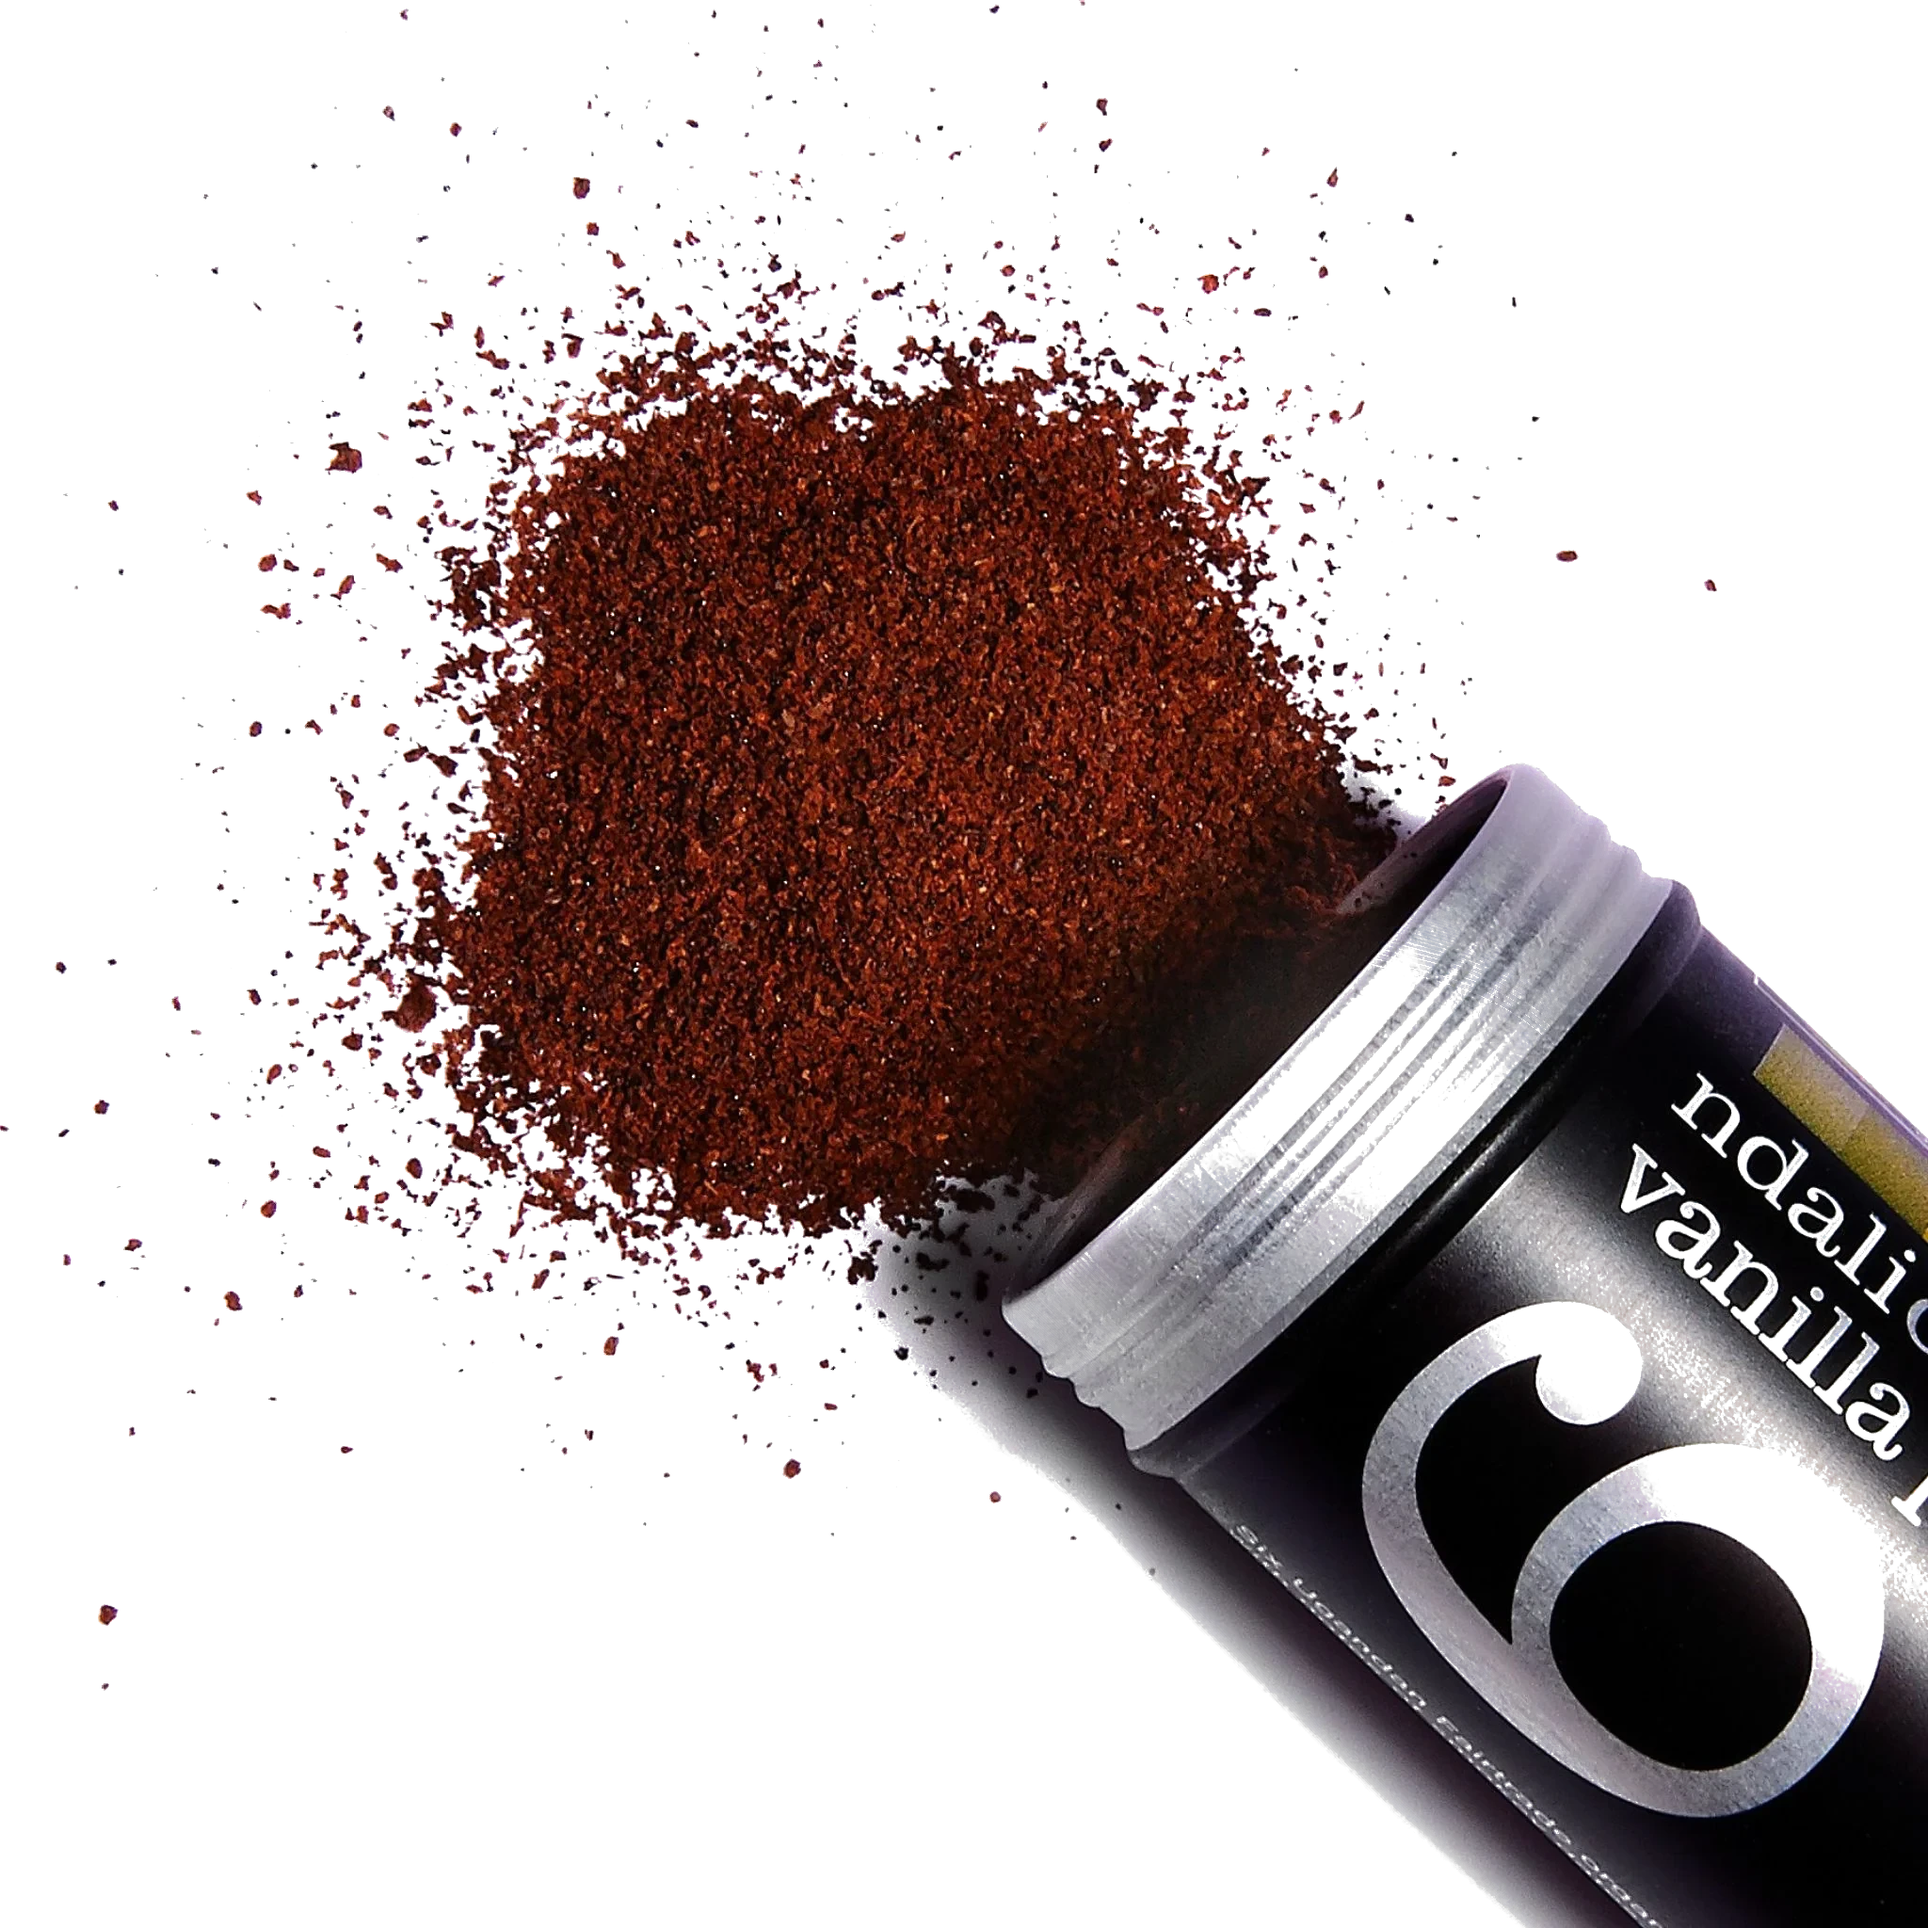
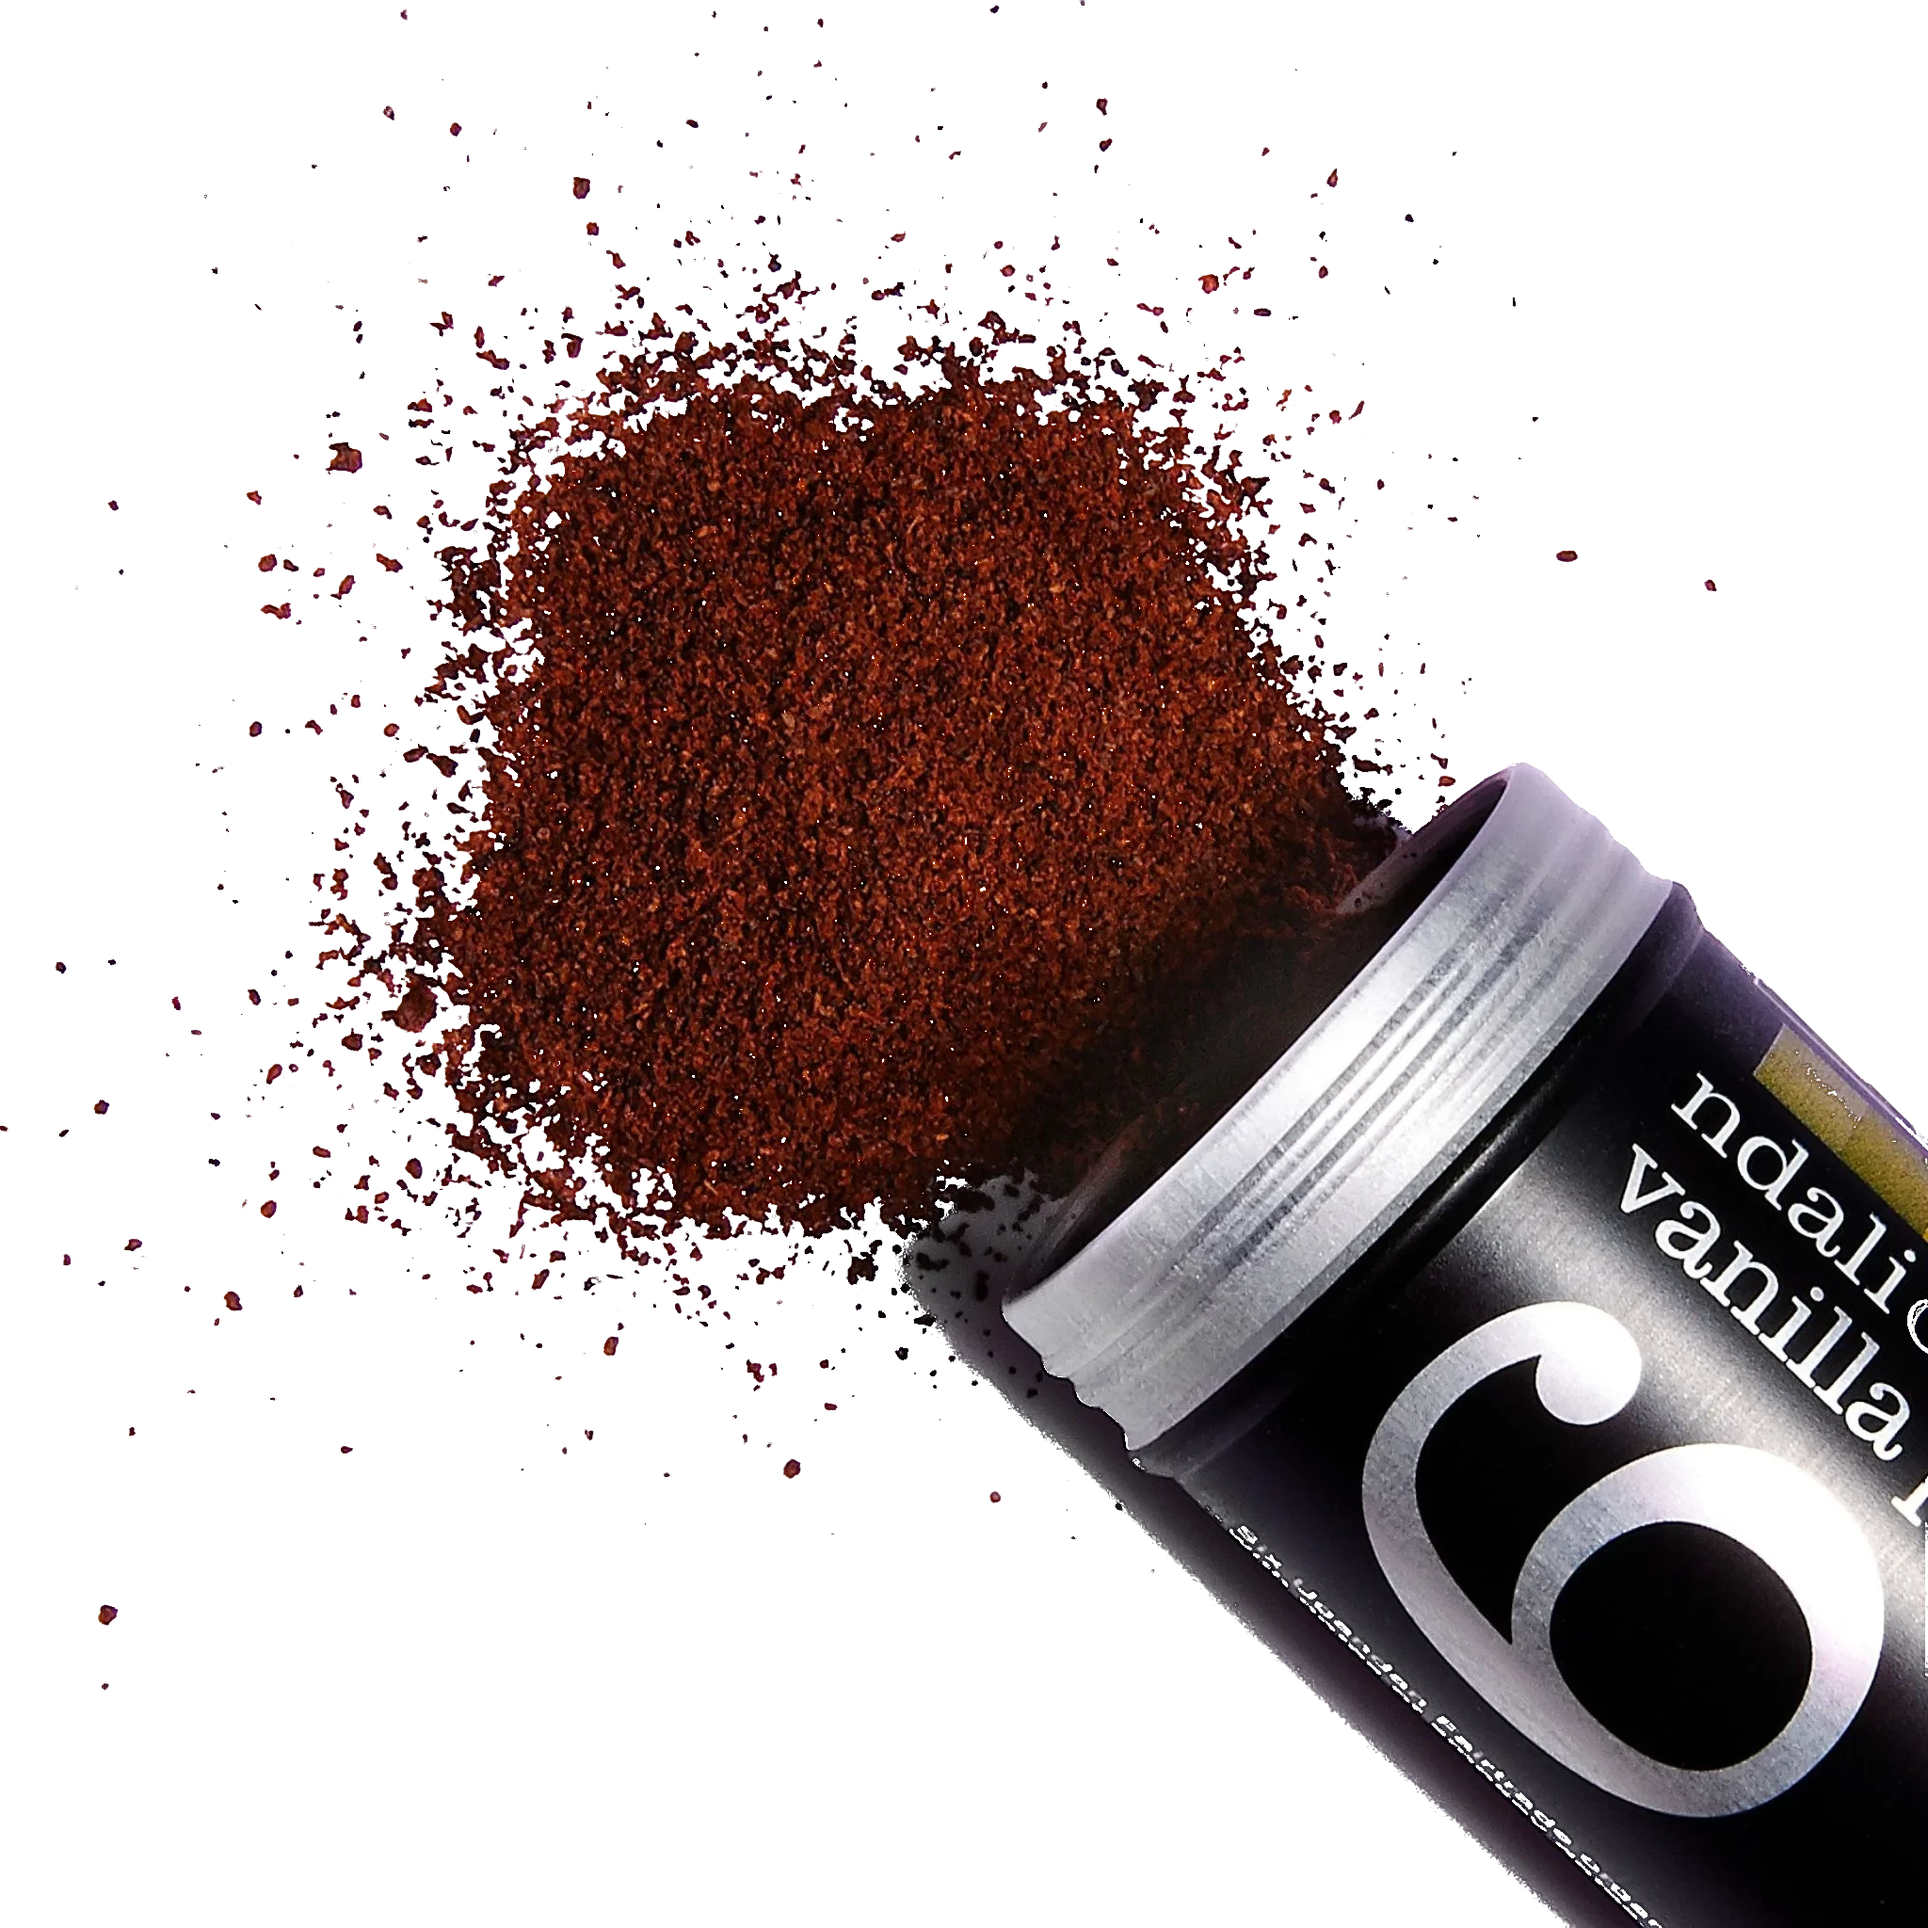
Cut-outs remade without halos; @sturdyvanilla beside every Shop link
The four product cut-outs the site uses (three tins, the spilt powder) are
remade with product-matte v2: no light rim on ink, no grey shadow on cream,
silver cap intact. Each Shop on TikTok link now carries the @sturdyvanilla
profile link with the TikTok mark beside it, because the vt.tiktok.com short
link redirects to an app scheme that a laptop browser cannot open.

diff --git a/index.html b/index.html
@@ -19,6 +19,7 @@
 <link rel="stylesheet" href="site.css">
 </head>
 <body>
+<svg style="position:absolute;width:0;height:0;overflow:hidden" aria-hidden="true" focusable="false"><symbol id="i-tiktok" viewBox="0 0 256 256"><path fill="currentColor" d="M224,72a48.05,48.05,0,0,1-48-48,8,8,0,0,0-8-8H128a8,8,0,0,0-8,8V156a20,20,0,1,1-28.57-18.08A8,8,0,0,0,96,130.69V88a8,8,0,0,0-9.4-7.88C50.91,86.48,24,119.1,24,156a76,76,0,0,0,152,0V116.29A103.25,103.25,0,0,0,224,128a8,8,0,0,0,8-8V80A8,8,0,0,0,224,72Zm-8,39.64a87.19,87.19,0,0,1-43.33-16.15A8,8,0,0,0,160,102v54a60,60,0,0,1-120,0c0-25.9,16.64-49.12,40-56.1v27.53A36,36,0,1,0,136,156V32h24.5A64.14,64.14,0,0,0,216,87.5Z"/></symbol></svg>
 
 <a class="skip" href="#main">Skip to content</a>
 <div class="sc-grain" aria-hidden="true"></div>
@@ -51,7 +52,7 @@
       <div class="title__body stack" data-sc-in data-sc-stagger="70">
         <h1 class="display">Grown by my aunt in Uganda.</h1>
         <p class="standfirst">Ndali vanilla, from my family's estate. My aunt grows and cures it. I sell it direct to home cooks.</p>
-        <p class="title__cta"><a href="https://vt.tiktok.com/ZN8YaNJSM/?page=TikTokShop">Shop on TikTok</a></p>
+        <p class="title__cta cta-row"><a href="https://vt.tiktok.com/ZN8YaNJSM/?page=TikTokShop">Shop on TikTok</a><a class="social" href="https://www.tiktok.com/@sturdyvanilla"><svg class="icon" aria-hidden="true" focusable="false"><use href="#i-tiktok"/></svg>@sturdyvanilla</a></p>
         <p class="caption title__byline">Joe Sturdy, Frome, Somerset</p>
       </div>
     </div>
@@ -127,7 +128,7 @@
             <p><a href="https://shop.tiktok.com/gb/pdp/1729692389694610075?region=GB&amp;locale=en-GB">Two intense Ndali pods</a>, 7.5g each. <span class="price">£9.99</span></p>
           </li>
         </ul>
-        <p class="caption">Every tin is recyclable aluminium. <a href="https://vt.tiktok.com/ZN8YaNJSM/?page=TikTokShop">Shop on TikTok</a>.</p>
+        <p class="caption">Every tin is recyclable aluminium. <a href="https://vt.tiktok.com/ZN8YaNJSM/?page=TikTokShop">Shop on TikTok</a>, or find <a class="social" href="https://www.tiktok.com/@sturdyvanilla"><svg class="icon" aria-hidden="true" focusable="false"><use href="#i-tiktok"/></svg>@sturdyvanilla</a>.</p>
       </div>
       <div class="media tins-media">
         <div class="cutouts" role="img" aria-label="The three tins side by side: the pods tube, the extract bottle and the powder tin.">
@@ -169,10 +170,10 @@
         <p class="label">Sturdy Vanilla</p>
         <h2 class="display">Sturdy Vanilla presents Ndali pods, extract and powder, grown by my aunt in Uganda.</h2>
         <p>Everything is on TikTok Shop. <a href="https://shop.tiktok.com/gb/pdp/1729692389694610075?region=GB&amp;locale=en-GB">2 Intense Ndali Vanilla Pods</a>, £9.99. <a href="https://shop.tiktok.com/gb/pdp/1729692405205015195?region=GB&amp;locale=en-GB">13g Ndali Vanilla Powder</a>, £10.99. <a href="https://shop.tiktok.com/gb/pdp/1729646031859653275?region=GB&amp;locale=en-GB">100ml Ndali Vanilla Extract</a>, £13.99. All in recyclable aluminium.</p>
-        <p class="colophon__cta"><a id="shop-button" class="button" href="https://vt.tiktok.com/ZN8YaNJSM/?page=TikTokShop">Shop on TikTok</a></p>
+        <p class="colophon__cta cta-row"><a id="shop-button" class="button" href="https://vt.tiktok.com/ZN8YaNJSM/?page=TikTokShop">Shop on TikTok</a><a class="social" href="https://www.tiktok.com/@sturdyvanilla"><svg class="icon" aria-hidden="true" focusable="false"><use href="#i-tiktok"/></svg>@sturdyvanilla</a></p>
       </div>
       <aside class="media colophon__aside stack" data-sc-in data-sc-stagger="60">
-        <p class="caption">Trade, stockists and press: <a href="mailto:joe@sturdy.vip">joe@sturdy.vip</a><br>WhatsApp <a href="https://wa.me/447785764880">+44 7785 764880</a><br><a class="social" href="https://www.tiktok.com/@sturdyvanilla"><svg class="icon" viewBox="0 0 256 256" aria-hidden="true" focusable="false"><path fill="currentColor" d="M224,72a48.05,48.05,0,0,1-48-48,8,8,0,0,0-8-8H128a8,8,0,0,0-8,8V156a20,20,0,1,1-28.57-18.08A8,8,0,0,0,96,130.69V88a8,8,0,0,0-9.4-7.88C50.91,86.48,24,119.1,24,156a76,76,0,0,0,152,0V116.29A103.25,103.25,0,0,0,224,128a8,8,0,0,0,8-8V80A8,8,0,0,0,224,72Zm-8,39.64a87.19,87.19,0,0,1-43.33-16.15A8,8,0,0,0,160,102v54a60,60,0,0,1-120,0c0-25.9,16.64-49.12,40-56.1v27.53A36,36,0,1,0,136,156V32h24.5A64.14,64.14,0,0,0,216,87.5Z"/></svg>@sturdyvanilla</a></p>
+        <p class="caption">Trade, stockists and press: <a href="mailto:joe@sturdy.vip">joe@sturdy.vip</a><br>WhatsApp <a href="https://wa.me/447785764880">+44 7785 764880</a><br><a class="social" href="https://www.tiktok.com/@sturdyvanilla"><svg class="icon" aria-hidden="true" focusable="false"><use href="#i-tiktok"/></svg>@sturdyvanilla</a></p>
       </aside>
     </div>
     <footer class="foot">

diff --git a/site.css b/site.css
@@ -191,8 +191,11 @@ a:hover { text-decoration-color: currentColor; }
 .colophon { min-height: 100svh; display: grid; grid-template-rows: 1fr auto; padding-top: clamp(64px, 14vh, 136px); }
 .colophon__spread { align-items: end; }
 .colophon__aside { max-width: 30rem; }
-.social { display: inline-flex; align-items: center; gap: 6px; }
+.social { display: inline-flex; align-items: center; gap: 6px; white-space: nowrap; }
 .social .icon { width: 18px; height: 18px; flex: none; }
+/* a Shop link and, beside it, the handle: the short link opens the app on a phone but is an
+   app-scheme redirect a laptop cannot follow, so the profile link is the fallback that works everywhere */
+.cta-row { display: flex; flex-wrap: wrap; align-items: center; gap: var(--s2) var(--s3); }
 .foot { display: flex; align-items: center; gap: var(--s4); flex-wrap: wrap; }
 .foot .fhrs { width: 96px; height: auto; flex: none; }
 .foot .caption { max-width: none; }
